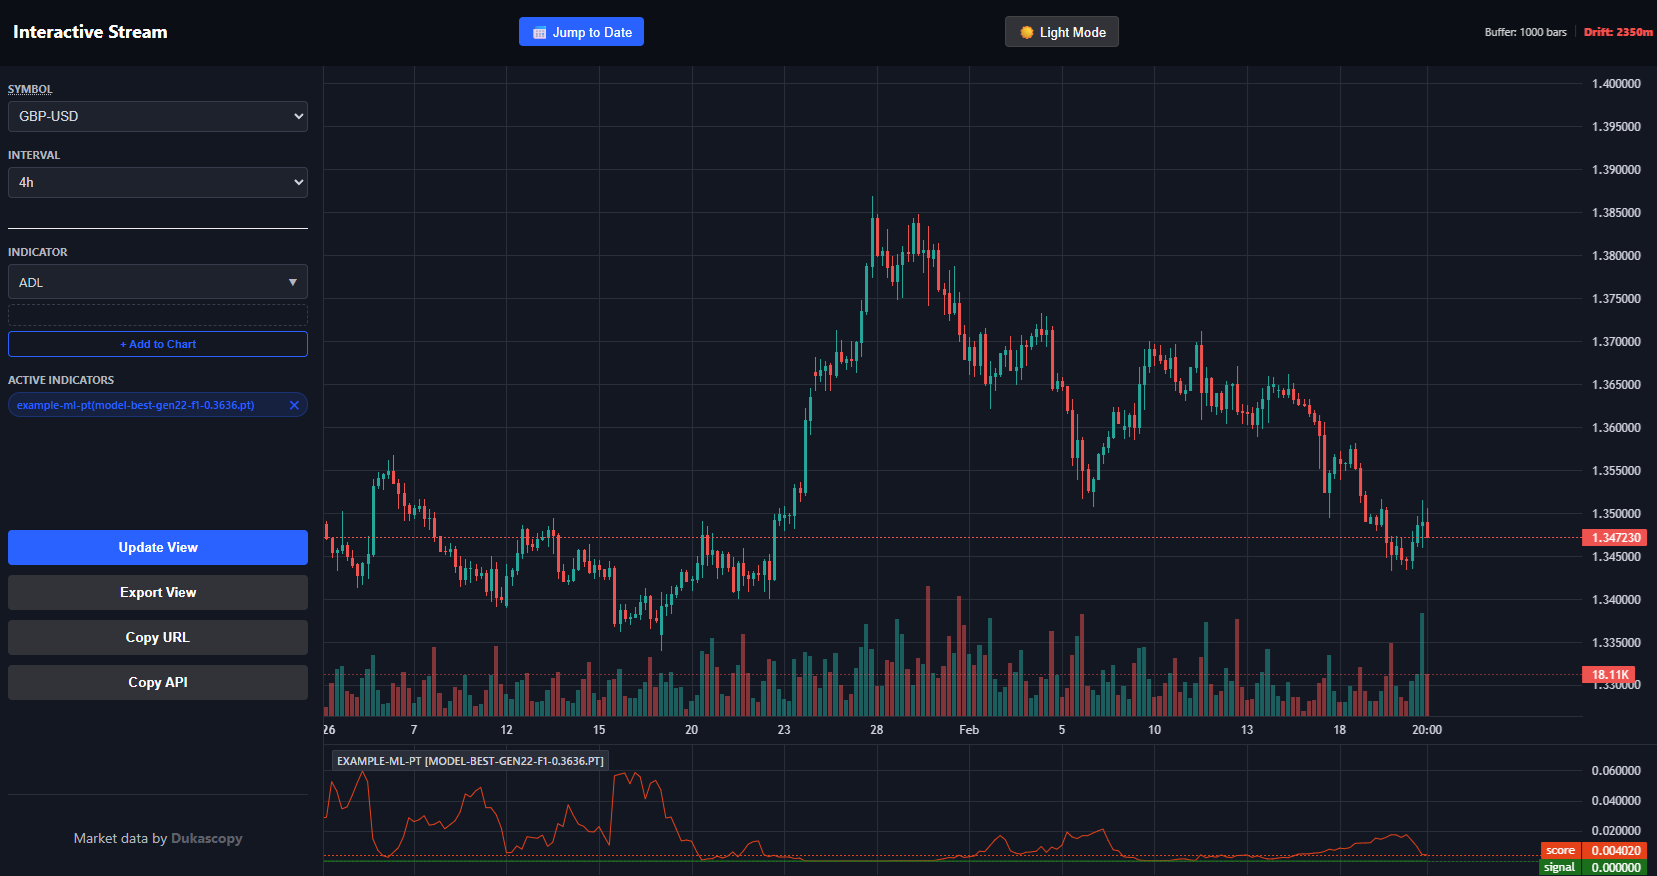
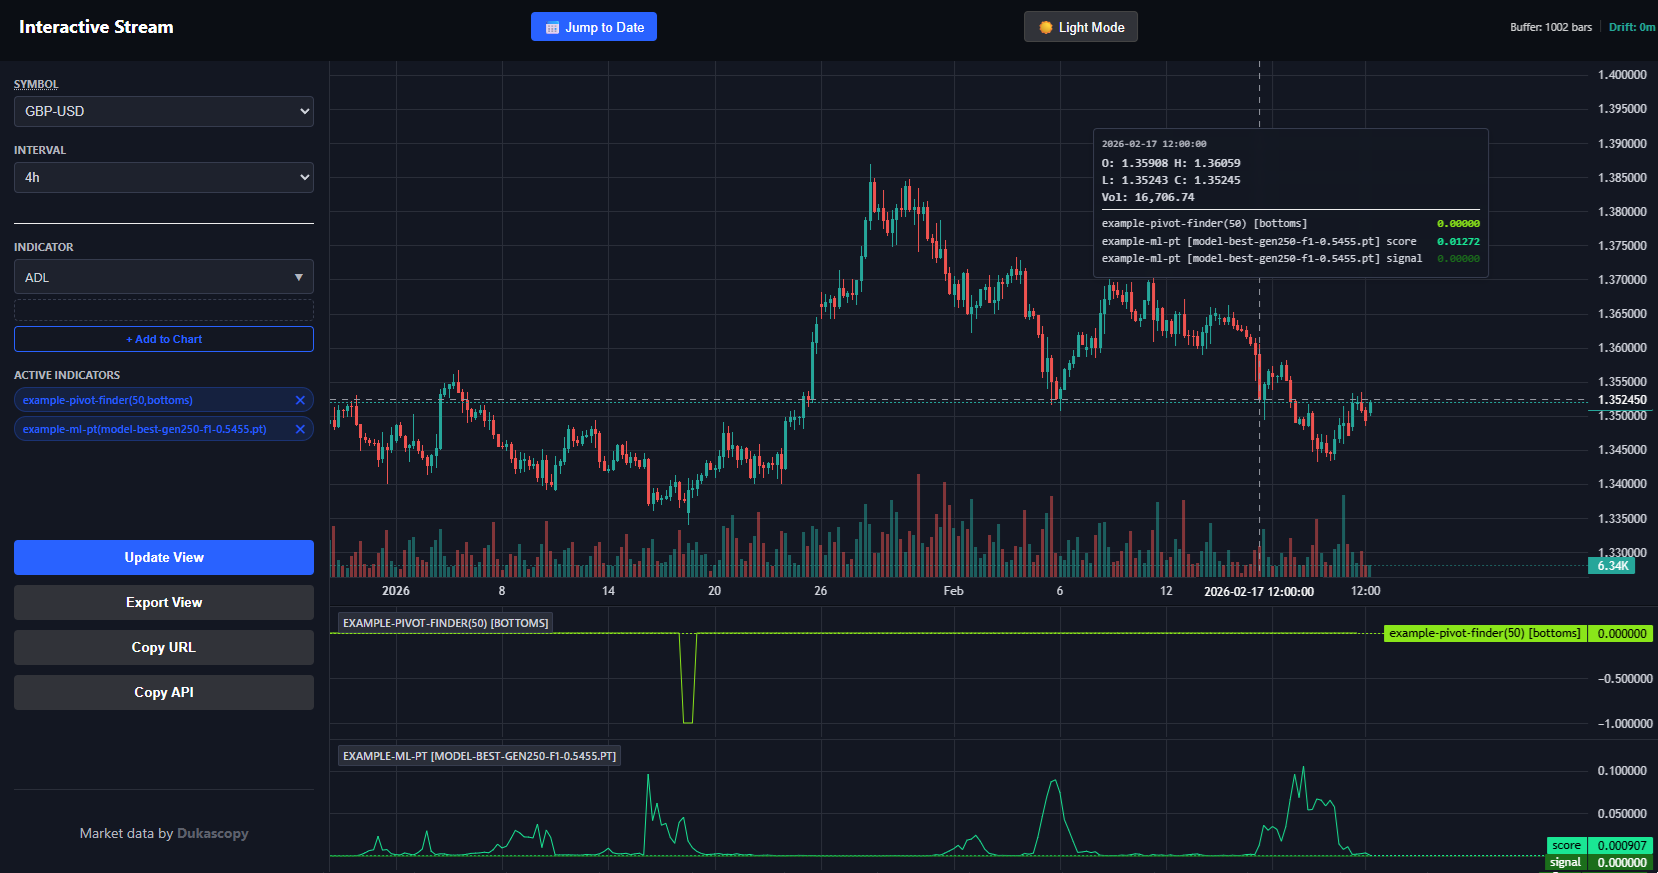
docs(notices): note on ml

diff --git a/dukascopy/docs/notices.md b/dukascopy/docs/notices.md
@@ -6,6 +6,13 @@ It's promising but serious work that (still) requires brutal validation.
 
 At minimum this can be used as an additional "signal"-filter. I have something working with that and works pretty good.
 
+This is the result of a trained model on EUR-USD, applied to GBP-USD. The data for training was strictly cutoff at 2025-12-31. It has never seen the 2026 data. No leakage. 
+
+For "a first attempt" it's definately not bad.
+
+![Example](../images/same-model-on-gbp.png)
+
+
 # 🚀 Release Update: Developer UX & Surgical Maintenance
 
 This project is a high-performance market research and analysis tool focused on feature engineering. While optimized for **"mechanical sympathy"** at the hardware level, these latest additions focus on improving the daily workflow for developers and researchers.
